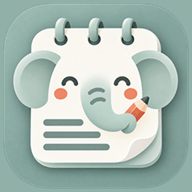
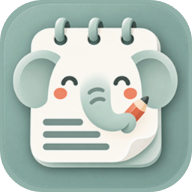
fix: 优化 PWA 圆角图标与 Safari 无白边图标配置

diff --git a/tests/server.integration.test.ts b/tests/server.integration.test.ts
@@ -804,6 +804,18 @@ describe("Bun Server API", () => {
     expect(contentSecurityPolicy).toContain("font-src 'self' https://cdn.jsdelivr.net");
     expect(contentSecurityPolicy).toContain("img-src 'self' data: blob: https:");
     expect(manifest.body?.display).toBe("standalone");
+    const icons = manifest.body?.icons as Array<{ src: string; sizes: string; purpose: string }>;
+    expect(icons.filter((icon) => icon.purpose === "any").map((icon) => icon.src)).toEqual(["/icon-192.png?v=rounded-1", "/icon-512.png?v=rounded-1"]);
+    expect(icons.filter((icon) => icon.purpose === "maskable").map((icon) => icon.sizes)).toEqual(["512x512", "1024x1024"]);
+    const shortcutIcons = (manifest.body?.shortcuts as Array<{ icons: Array<{ src: string }> }>).flatMap((shortcut) => shortcut.icons);
+    expect(shortcutIcons.every((icon) => icon.src === "/icon-192.png?v=rounded-1")).toBe(true);
+    for (const icon of icons) {
+      const url = new URL(icon.src, "http://xiangying.test/manifest.webmanifest");
+      const asset = await request(`${url.pathname}${url.search}`, {}, undefined, environment, url.origin, "app");
+      expect(asset.response.status).toBe(200);
+      expect(asset.response.headers.get("Content-Type")).toContain("image/png");
+      expect(asset.response.headers.get("Cache-Control")).toBe("no-cache");
+    }
 
     const worker = await request("/sw.js");
     expect(worker.response.status).toBe(200);
@@ -832,9 +844,12 @@ describe("Bun Server API", () => {
     expect(manifest.response.status).toBe(200);
     expect(manifest.body?.short_name).toBe("象映笔记");
 
-    const icon = await request("/icon-192.png", {}, undefined, devEnvironment, "http://xiangying.test", "dist/dev-client");
-    expect(icon.response.status).toBe(200);
-    expect(icon.response.headers.get("Content-Type")).toContain("image/png");
+    for (const path of ["/icon-192.png?v=rounded-1", "/icon-maskable-1024.png", "/apple-touch-icon.png?v=rounded-1", "/favicon.png"]) {
+      const icon = await request(path, {}, undefined, devEnvironment, "http://xiangying.test", "dist/dev-client");
+      expect(icon.response.status).toBe(200);
+      expect(icon.response.headers.get("Content-Type")).toContain("image/png");
+      expect(icon.response.headers.get("Cache-Control")).toBe("no-cache");
+    }
   });
 
   test("returns no notes when a search query has no searchable terms", async () => {

diff --git a/scripts/build-client.ts b/scripts/build-client.ts
@@ -18,10 +18,10 @@ const indexPath = "./dist/client/index.html";
 let indexHtml = await Bun.file(indexPath).text();
 indexHtml = indexHtml
   .replace(/href="[^"]*manifest(?:-[^"]+)?\.webmanifest"/, 'href="/manifest.webmanifest"')
-  .replace(/href="[^"]*icon-192(?:-[^"]+)?\.png"/, 'href="/icon-192.png"');
+  .replace(/(<link\b[^>]*\brel="apple-touch-icon"[^>]*\bhref=")[^"]*(")/, '$1/apple-touch-icon.png?v=rounded-1$2');
 await Bun.write(indexPath, indexHtml);
 
-for (const file of ["manifest.webmanifest", "icon-192.png", "icon-512.png", "icon-maskable-512.png"]) {
+for (const file of ["manifest.webmanifest", "icon-192.png", "icon-512.png", "icon-maskable-512.png", "icon-maskable-1024.png", "apple-touch-icon.png"]) {
   await Bun.write(`./dist/client/${file}`, Bun.file(`./app/${file}`));
 }
 
@@ -52,6 +52,9 @@ const workerWithPrecache = workerSource
 await Bun.write("./dist/client/sw.js", workerWithPrecache);
 
 for await (const generatedFile of new Bun.Glob("icon-192-*.png").scan({ cwd: clientRoot, onlyFiles: true })) {
+  await rm(resolve(clientRoot, generatedFile), { force: true });
+}
+for await (const generatedFile of new Bun.Glob("apple-touch-icon-*.png").scan({ cwd: clientRoot, onlyFiles: true })) {
   await rm(resolve(clientRoot, generatedFile), { force: true });
 }
 for await (const generatedFile of new Bun.Glob("manifest-*.webmanifest").scan({ cwd: clientRoot, onlyFiles: true })) {

diff --git a/server/index.ts b/server/index.ts
@@ -100,7 +100,7 @@ const MIME_TYPES: Record<string, string> = {
   ".ico": "image/x-icon",
 };
 
-const DEV_PWA_ASSETS = new Set(["manifest.webmanifest", "icon-192.png", "icon-512.png", "icon-maskable-512.png"]);
+const DEV_PWA_ASSETS = new Set(["manifest.webmanifest", "icon-192.png", "icon-512.png", "icon-maskable-512.png", "icon-maskable-1024.png", "apple-touch-icon.png", "favicon.png"]);
 
 function invalidCookieMutationOrigin(request: Request, environment: Record<string, string | undefined>) {
   if (request.method === "GET" || request.method === "HEAD" || request.method === "OPTIONS") return false;
@@ -168,7 +168,7 @@ async function serveStatic(request: Request, clientRoot: string, environment: Re
   const basename = relativePath.toLowerCase();
   const mutablePwaAsset = basename === "sw.js"
     || basename === "manifest.webmanifest"
-    || /^(?:favicon\.png|icon-(?:192|512|maskable-512)\.png)$/u.test(basename);
+    || /^(?:favicon\.png|apple-touch-icon\.png|icon-(?:192|512|maskable-(?:512|1024))\.png)$/u.test(basename);
   headers.set("Cache-Control", hasExtension && relativePath !== "index.html" && !mutablePwaAsset ? "public, max-age=31536000, immutable" : "no-cache");
 
   // Revalidation: `no-cache` entries (index.html, sw.js) are requested on every

diff --git a/app/index.html b/app/index.html
@@ -10,7 +10,7 @@
     <meta name="apple-mobile-web-app-status-bar-style" content="default" />
     <meta name="apple-mobile-web-app-title" content="象映笔记" />
     <link rel="manifest" href="./manifest.webmanifest" />
-    <link rel="apple-touch-icon" sizes="192x192" href="./icon-192.png" />
+    <link rel="apple-touch-icon" sizes="180x180" href="./apple-touch-icon.png?v=rounded-1" />
     <link rel="icon" type="image/png" href="./favicon.png" />
     <base href="/" />
     <title>象映笔记</title>
